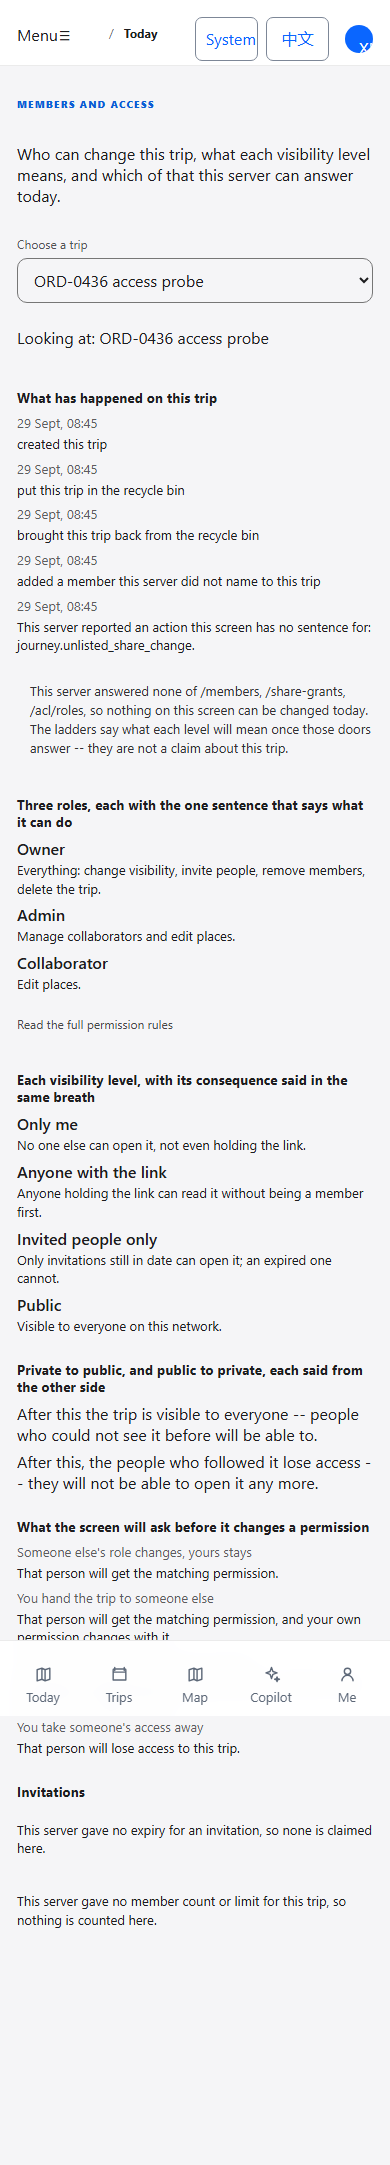
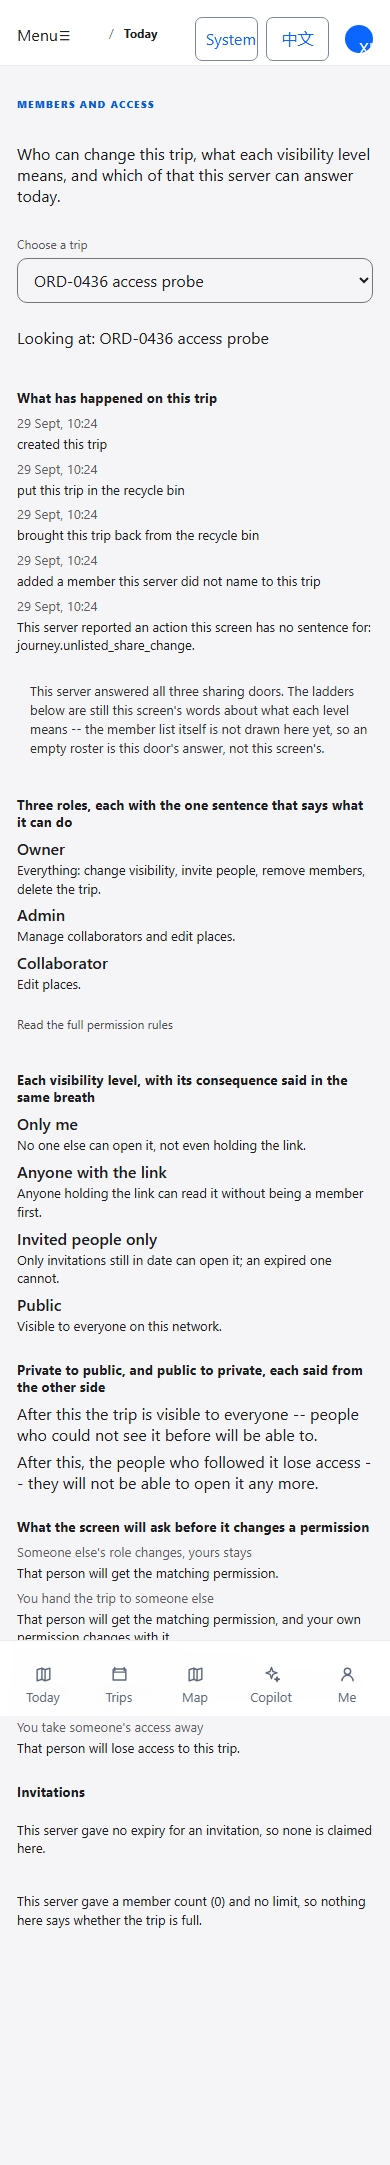
ORD-0436: re-cut on 4f5dda12, and two sentences that only the landed doors could expose
The ground moved again after `-r3`: ORD-0434's sharing layer is on the line now (six doors at
backend/app/main.py:3214, :3285, :3331, :3456, :3506, :3546; tables JourneyMember, JourneyShareGrant,
JourneyRoleCapability), so the three paths this screen asks answer with real payloads, and
`ShareVisibility` is in this tree's own contract. The seam arm went from NOT_YET_CHECKABLE to CHECKED
on the reading's own terms: contract levels and screen levels are the same four, byte for byte.

Rebase: eight commits cherry-picked onto 4f5dda12f6ae8fdbfbc0d78dba3af14f24f2d6bb with no conflict.
Checked rather than trusted, because the registry diverged three ways: at the base `v8PanelRegistry.tsx`
holds no access entry (registry_lines=490), on this branch it holds exactly one entry and one import
(registry_lines=501, added=11 deleted=0), dictionary rows 1572 -> 1574 with keys_lost_from_tip=0, and
the whole branch against the base is files=22 added=2648 deleted=0.

Two fixes came out of re-measuring instead of re-running the old expectations:

  - The instrument captured the two invitation lines at first paint, before the sharing doors had
    settled, so it reported "this server gave no member count" about a server that had answered zero.
    Same pre-settle mistake as the door line fixed earlier; both lines are now re-read after the
    doors settle, and the screen really says 这台服务器给了成员数（0），没给上限.
[…]

diff --git a/frontend/src/features/access/accessCopy.ts b/frontend/src/features/access/accessCopy.ts
@@ -96,7 +96,8 @@ export const accessCopy = {
       "This server answered none of {paths}, so nothing on this screen can be changed today. The ladders say what each level will mean once those doors answer -- they are not a claim about this trip.",
     "access.doorPartial":
       "This server answered some but not all of the sharing doors; the ones still silent are {paths}. Read the ladders as what each level will mean, not as this trip's state.",
-    "access.doorPresent": "This server answered who can reach this trip; the rows below are its answer.",
+    "access.doorPresent":
+      "This server answered all three sharing doors. The ladders below are still this screen's words about what each level means -- the member list itself is not drawn here yet, so an empty roster is this door's answer, not this screen's.",
   },
   "zh-CN": {
     "access.title": "成员与权限",
@@ -164,7 +165,8 @@ export const accessCopy = {
       "这台服务器 {paths} 一扇都没答，所以这一屏今天没有任何一项能真改。下面写的是那几扇门答话之后每一档意味着什么，不是对这条行程下的结论。",
     "access.doorPartial":
       "这台服务器只答了共享那几扇门里的一部分，还没答的是 {paths}。下面写的是每档将要意味着什么，不是这条行程现在的状态。",
-    "access.doorPresent": "这台服务器答了谁能到达这条行程；下面几行就是它的答案。",
+    "access.doorPresent":
+      "这台服务器三扇共享门都答了。下面几档仍是这一屏自己说每一档意味着什么的话；成员名单这一格还没画出来，所以名单为空是这扇门的答案，不是这一屏的结论。",
   },
 } as const;
 
